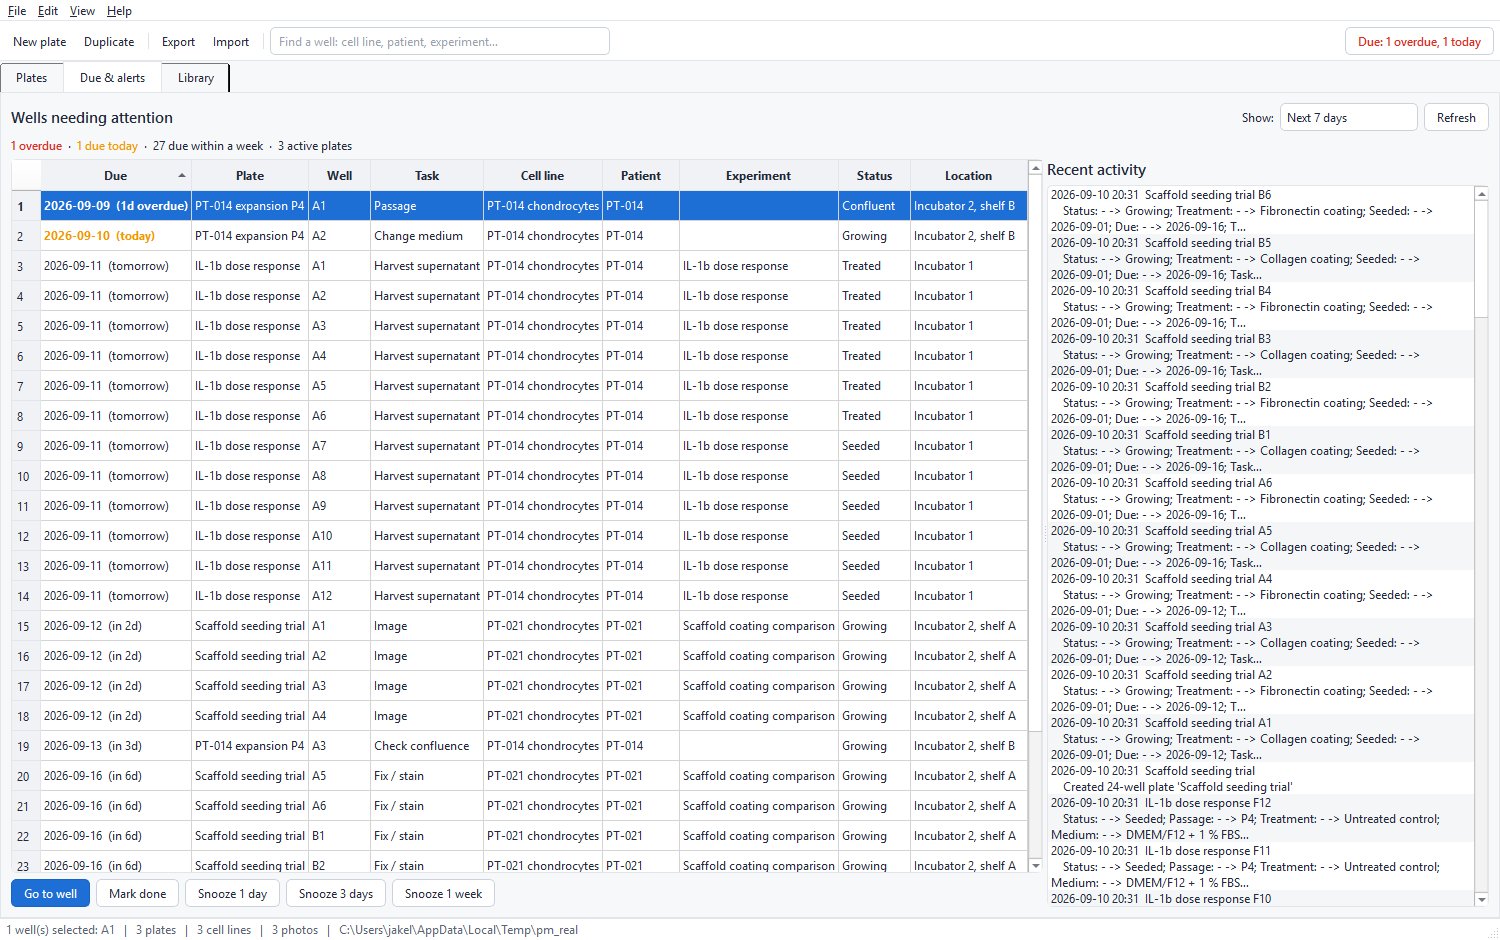
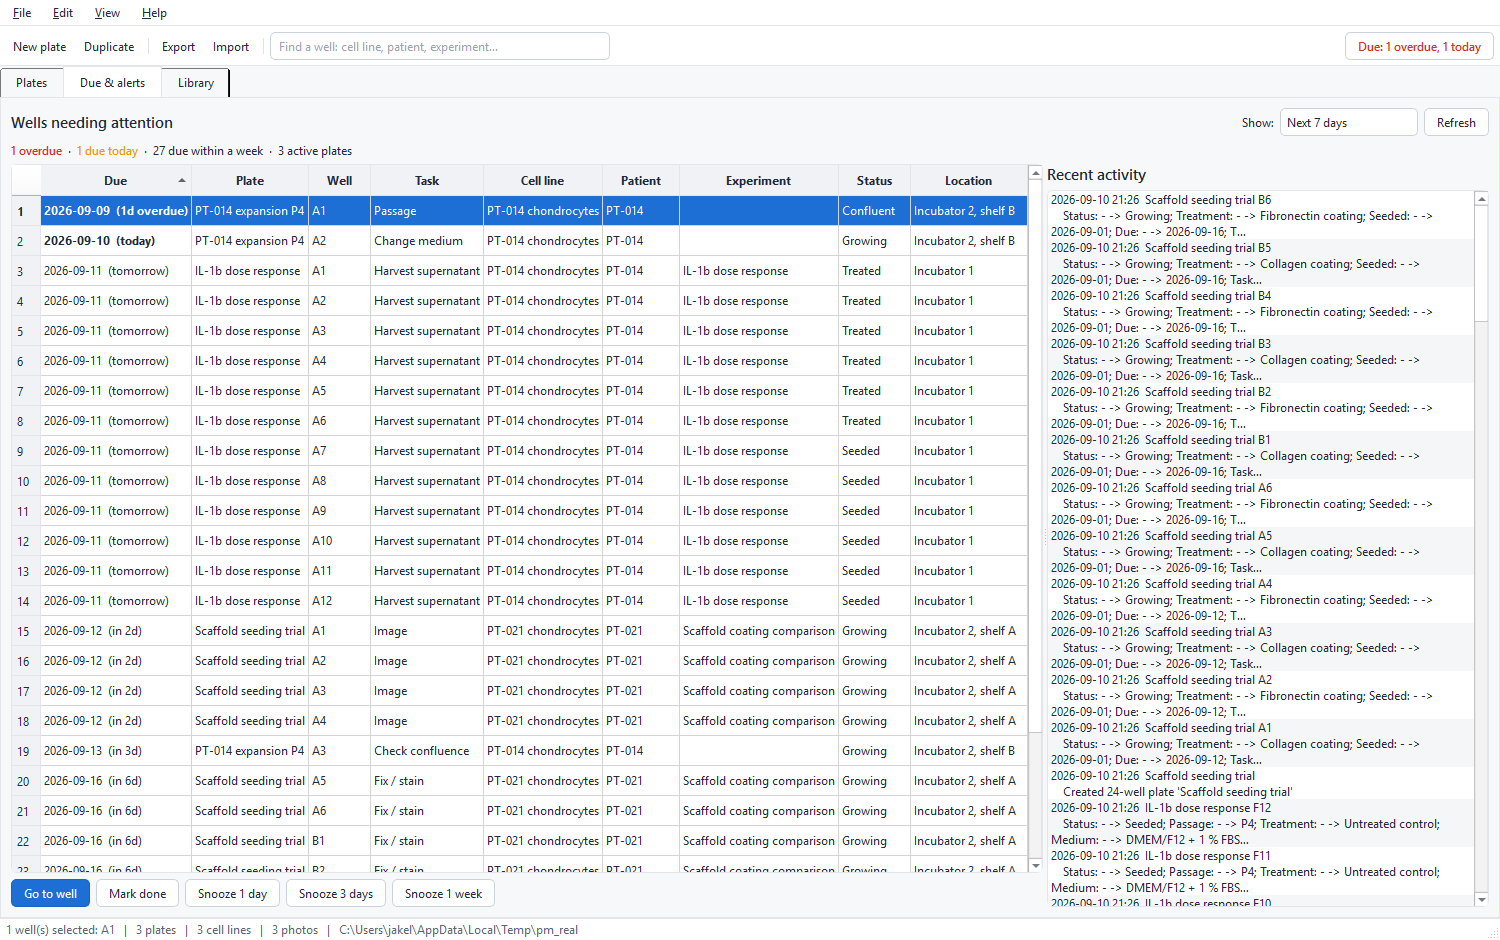
Fix unreadable rows in dropdowns and item views
The shared input rule named QComboBox, which makes Qt paint the popup's
current row with that box style - a white rounded box with white text, so
the highlighted format in the New plate dialog vanished on mouseover.
QComboBox::item rules give the popup rows their own colours.

Same class of problem for every item view: once a stylesheet rule applies
to a view, Qt stops taking hover/selected colours from the palette, so
those are now stated explicitly for lists, tables, menus and tooltips.

Verified by grabbing the format popup, a long status popup, the completer
popup, the calendar popup and the plate list with a row under the cursor.

diff --git a/plate_manager/ui/theme.py b/plate_manager/ui/theme.py
@@ -71,6 +71,32 @@ QPushButton#primary:disabled { background: #b8cbe8; border-color: #b8cbe8; color
 QListWidget, QTableWidget, QTreeWidget {
     border: 1px solid #e2e5ea; border-radius: 6px; background: #ffffff;
 }
+/* Item views need their own hover/selected colours: once any stylesheet rule
+   applies to a view (or to the QComboBox a popup belongs to), Qt stops using
+   the palette for those states and would paint the row white on white. */
+QAbstractItemView {
+    background: #ffffff; color: #22293a; outline: 0;
+    selection-background-color: #1d6fd6; selection-color: #ffffff;
+}
+QListView::item, QTreeView::item, QTableView::item { color: #22293a; }
+QListView::item:hover, QTreeView::item:hover, QTableView::item:hover {
+    background: #eef3fb; color: #22293a;
+}
+QListView::item:selected, QTreeView::item:selected, QTableView::item:selected {
+    background: #1d6fd6; color: #ffffff;
+}
+QComboBox::item { background: #ffffff; color: #22293a; }
+QComboBox::item:selected { background: #1d6fd6; color: #ffffff; }
+QMenu { background: #ffffff; color: #22293a; border: 1px solid #ccd2db; padding: 4px; }
+QMenu::item { padding: 5px 20px; }
+QMenu::item:selected { background: #1d6fd6; color: #ffffff; }
+QMenu::item:disabled { color: #9aa2ae; }
+QMenu::separator { height: 1px; background: #e2e5ea; margin: 4px 6px; }
+QMenuBar::item { padding: 5px 9px; }
+QMenuBar::item:selected { background: #eef3fb; }
+QToolTip {
+    background: #ffffff; color: #22293a; border: 1px solid #ccd2db; padding: 3px;
+}
 QHeaderView::section {
     background: #f0f2f5; border: none; border-right: 1px solid #e2e5ea;
     border-bottom: 1px solid #e2e5ea; padding: 5px;
